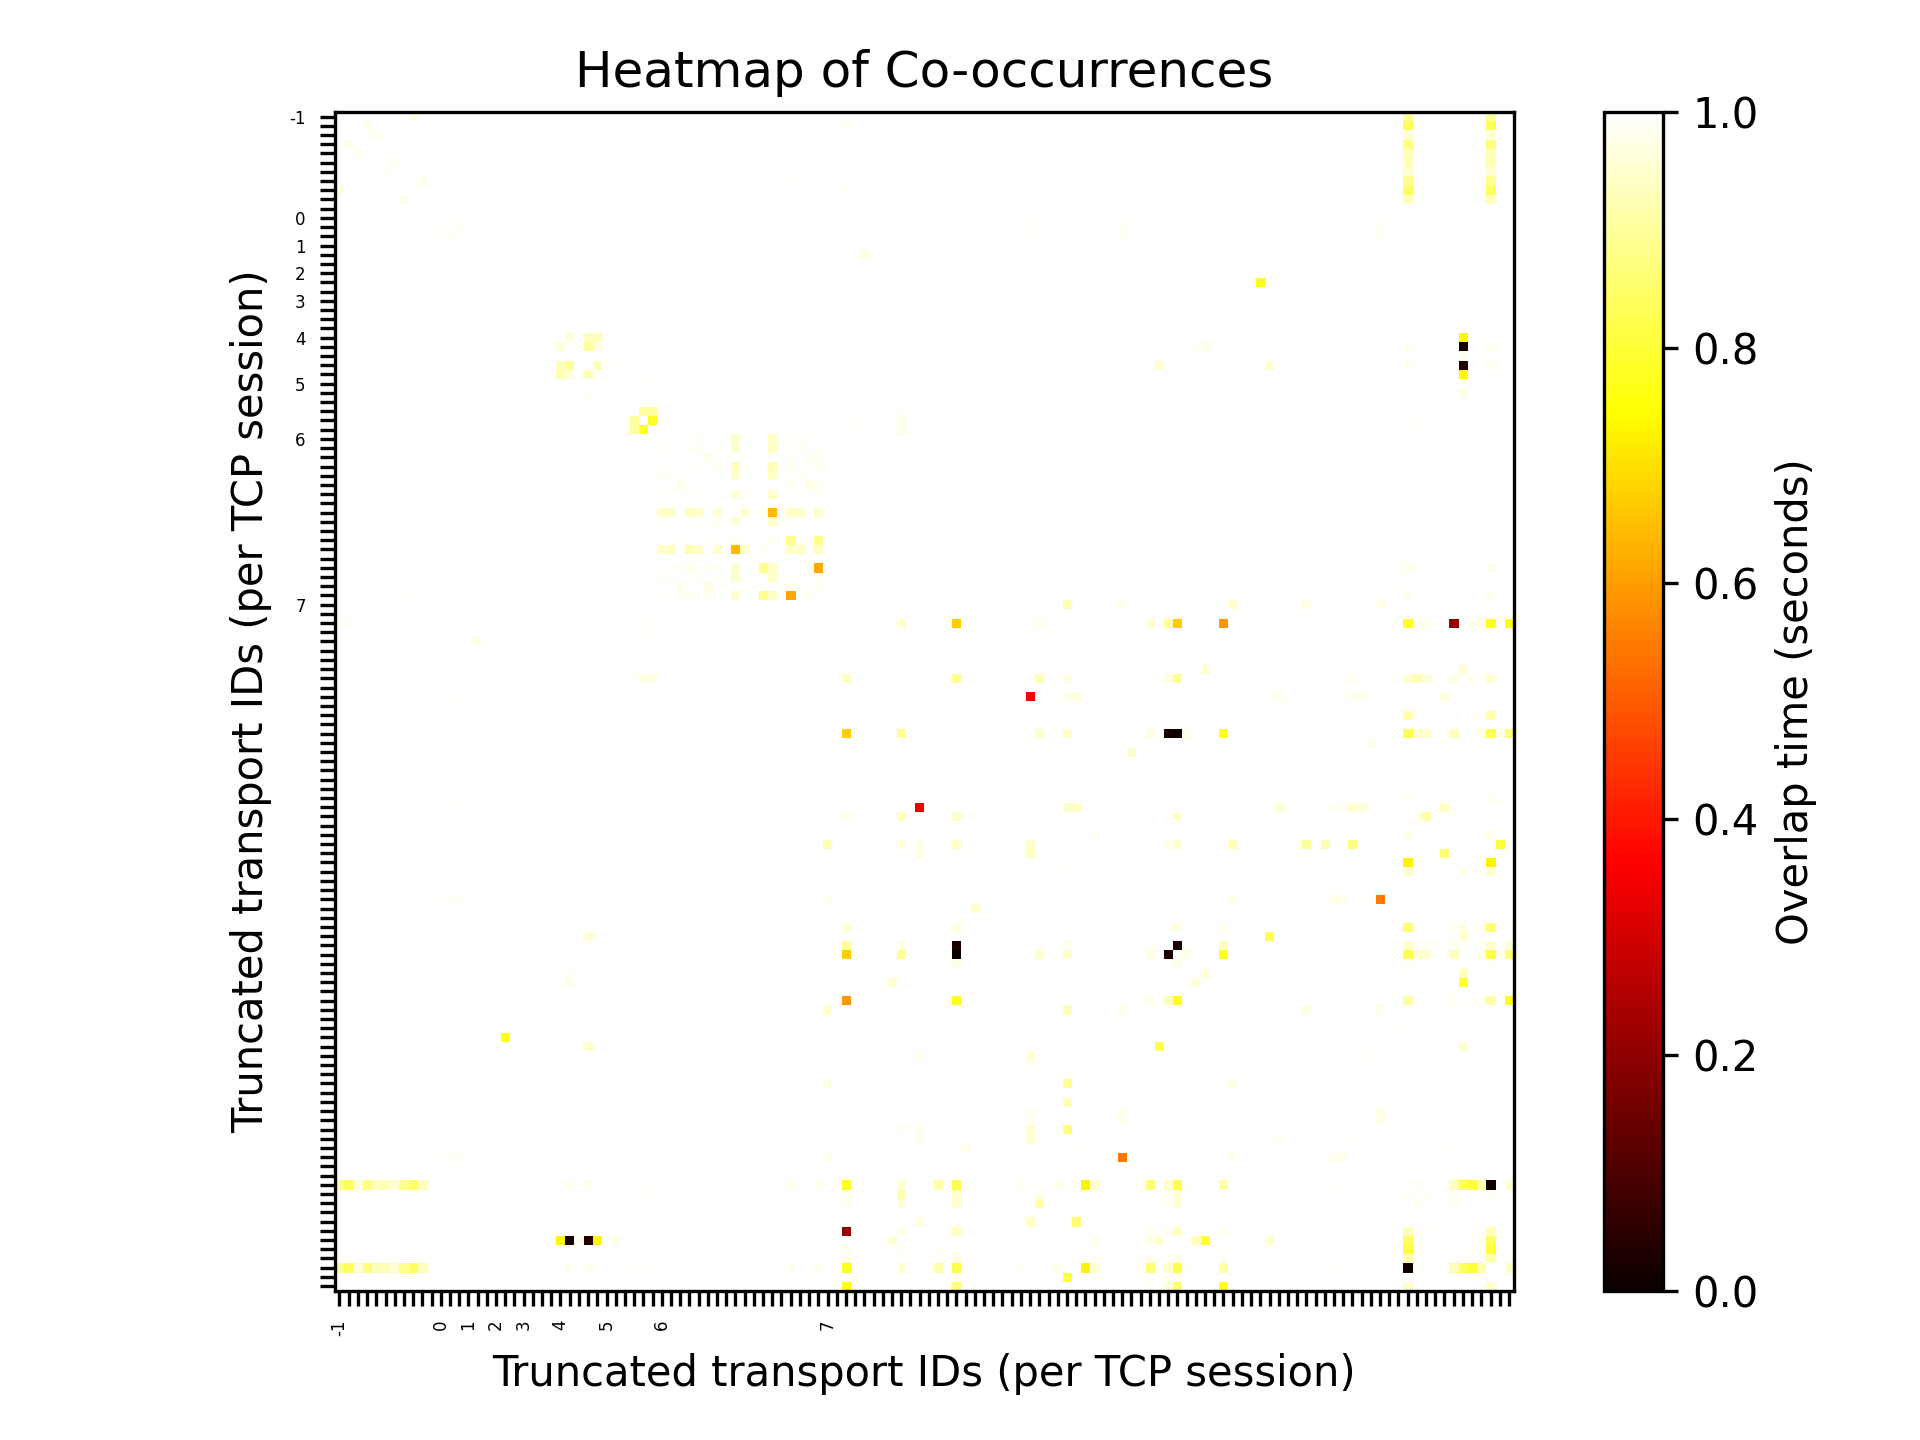
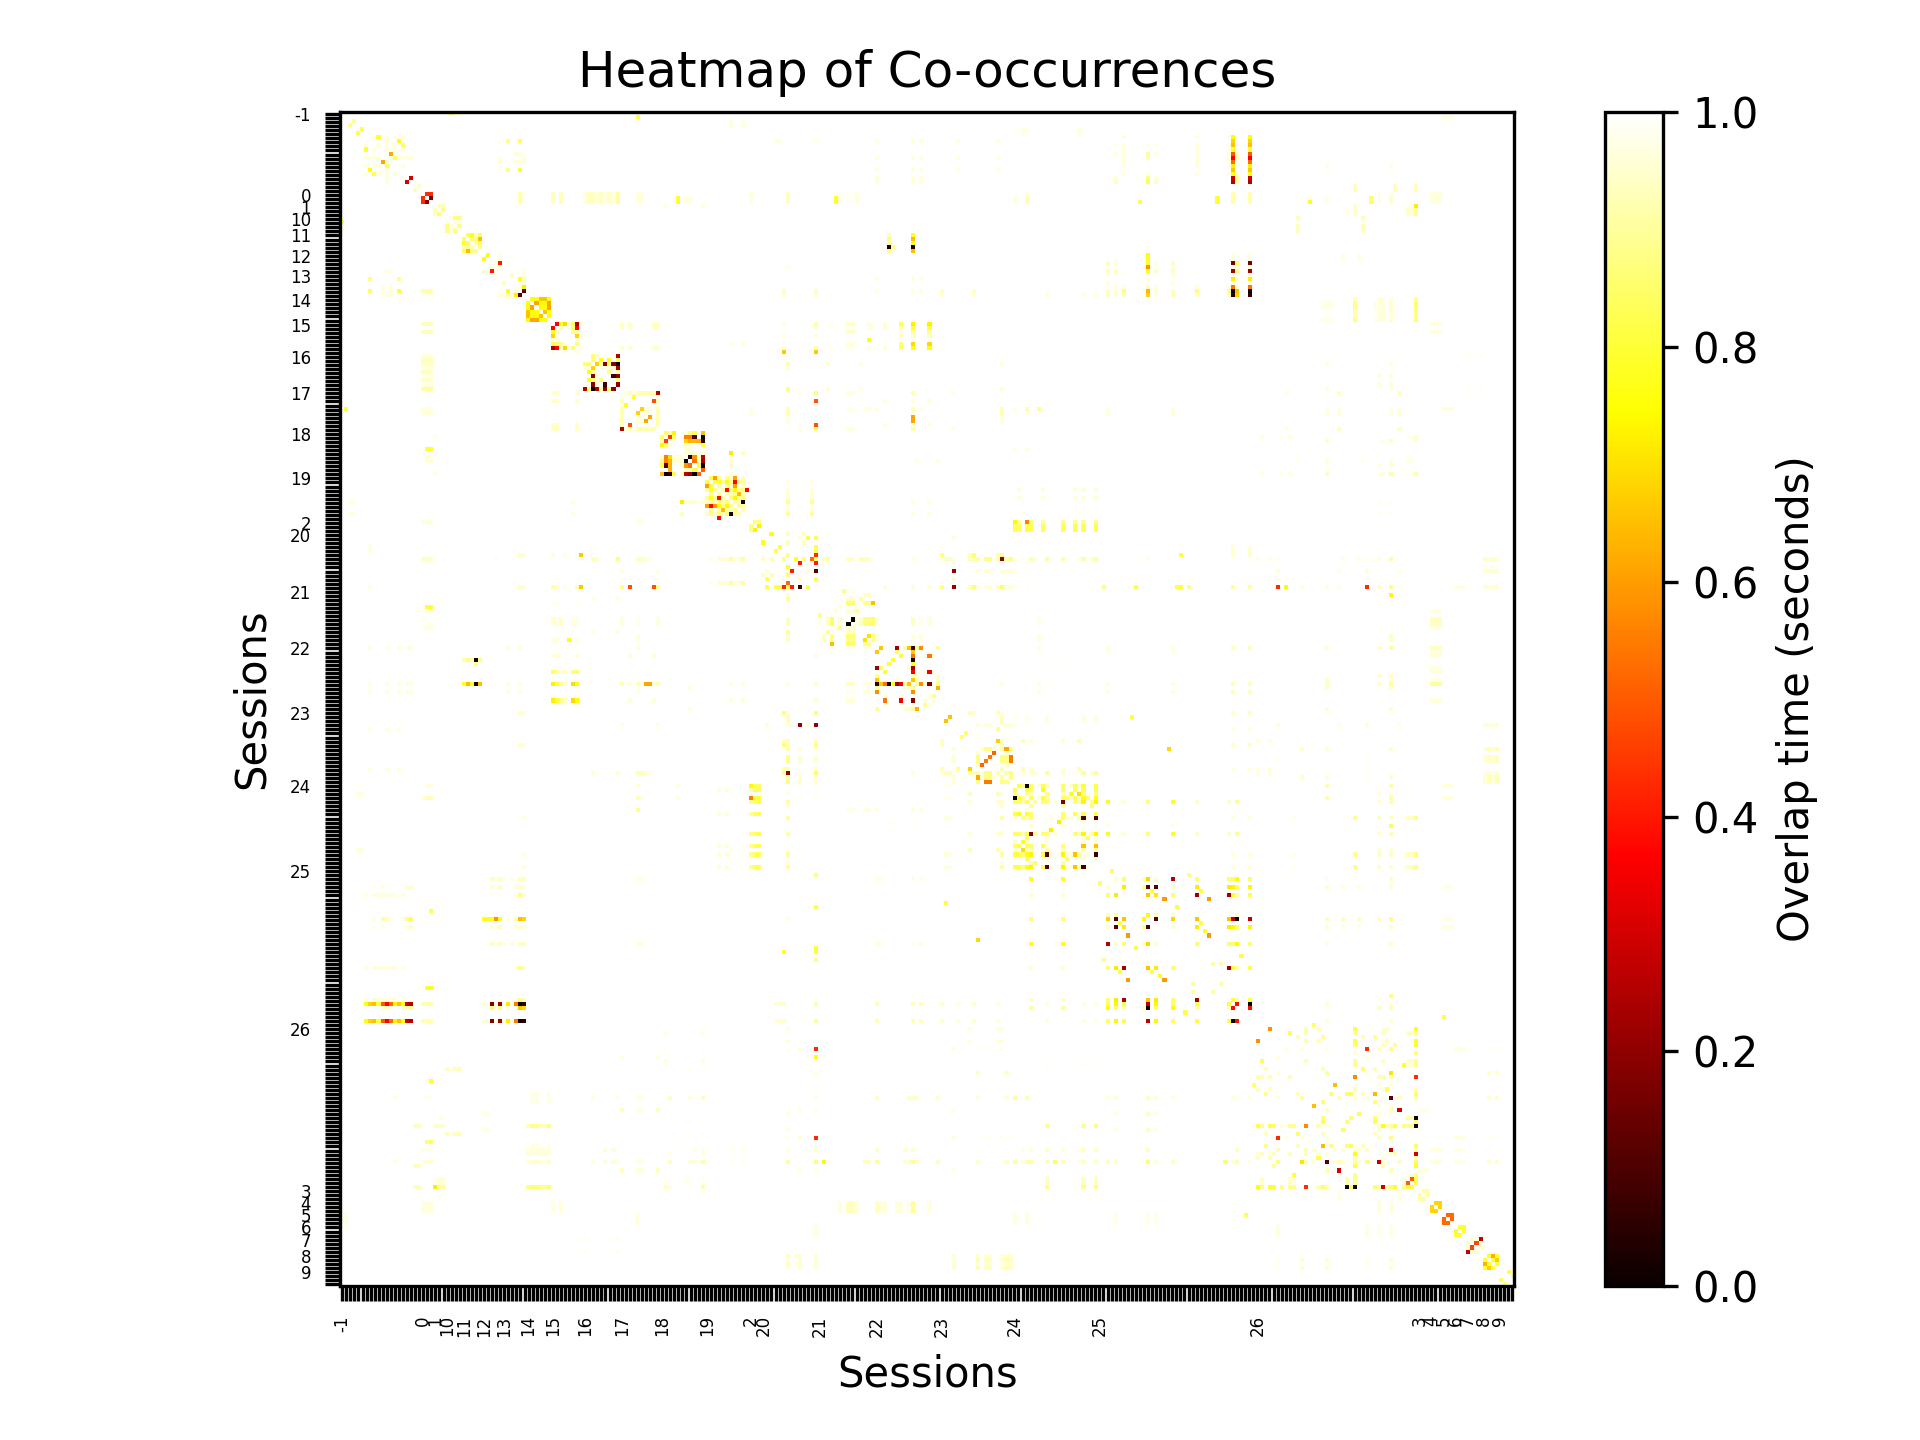
count size of data taken by cooccurrence, make sure overlap values dont overflow, plot overlaps frequencies (and cdf), make cooccurrence data private

diff --git a/inspect/grouping/cooccurrence.go b/inspect/grouping/cooccurrence.go
@@ -3,6 +3,7 @@ package grouping
 import (
 	"fmt"
 	"os"
+	"unsafe"
 
 	"bringyour.com/protocol"
 
@@ -27,8 +28,8 @@ type CoOccurrenceData map[uint64]map[uint64]uint64
 
 // used to precompute distances for clustering
 type CoOccurrence struct {
-	Data      *CoOccurrenceData
-	IdMapping map[SessionID]uint64 // map from session id to internal cooccurrence id (0 is never used as id)
+	data      *CoOccurrenceData
+	idMapping *map[SessionID]uint64 // map from session id to internal cooccurrence id (0 is never used as id)
 	nextId    uint64
 }
 
@@ -37,9 +38,10 @@ func NewCoOccurrence(cmapData *CoOccurrenceData) *CoOccurrence {
 		_cmapData := make(CoOccurrenceData, 0)
 		cmapData = &_cmapData
 	}
+	idMap := make(map[SessionID]uint64, 0)
 	return &CoOccurrence{
-		Data:      cmapData,
-		IdMapping: make(map[SessionID]uint64),
+		data:      cmapData,
+		idMapping: &idMap,
 		nextId:    1, // 0 is never used as id
 	}
 }
@@ -47,22 +49,22 @@ func NewCoOccurrence(cmapData *CoOccurrenceData) *CoOccurrence {
 // gets the internal id of the provided session id
 // if the session id is not in the mapping, it is added as the next available id
 func (c *CoOccurrence) getInternalId(sid SessionID) uint64 {
-	cid, ok := c.IdMapping[sid]
+	cid, ok := (*c.idMapping)[sid]
 	if !ok {
 		cid = c.nextId
-		c.IdMapping[sid] = cid
+		(*c.idMapping)[sid] = cid
 		c.nextId++
 	}
 	return cid
 }
 
-func (c *CoOccurrence) GetInternalMapping() map[SessionID]uint64 {
-	return c.IdMapping
+func (c *CoOccurrence) GetInternalMapping() *map[SessionID]uint64 {
+	return c.idMapping
 }
 
 func (c *CoOccurrence) SetOuterKey(sid SessionID) {
 	cid := c.getInternalId(sid)
-	(*c.Data)[cid] = make(map[uint64]uint64, 0)
+	(*c.data)[cid] = make(map[uint64]uint64, 0)
 }
 
 func (c *CoOccurrence) CalcAndSet(ov1 Overlap, ov2 Overlap) {
@@ -83,15 +85,15 @@ func (c *CoOccurrence) CalcAndSet(ov1 Overlap, ov2 Overlap) {
 
 	switch sid1.Compare(sid2) {
 	case -1: // sid1 < sid2
-		if _, ok := (*c.Data)[cid1]; !ok {
-			(*c.Data)[cid1] = make(map[uint64]uint64, 0)
+		if _, ok := (*c.data)[cid1]; !ok {
+			(*c.data)[cid1] = make(map[uint64]uint64, 0)
 		}
-		(*c.Data)[cid1][cid2] = totalOverlap
+		(*c.data)[cid1][cid2] = totalOverlap
 	case 1: // sid1 > sid2
-		if _, ok := (*c.Data)[cid2]; !ok {
-			(*c.Data)[cid2] = make(map[uint64]uint64, 0)
+		if _, ok := (*c.data)[cid2]; !ok {
+			(*c.data)[cid2] = make(map[uint64]uint64, 0)
 		}
-		(*c.Data)[cid2][cid1] = totalOverlap
+		(*c.data)[cid2][cid1] = totalOverlap
 	}
 }
 
@@ -101,15 +103,27 @@ func (c *CoOccurrence) Get(sid1 SessionID, sid2 SessionID) uint64 {
 
 	// if value doesn't exist then 0 value is returned (which is desired)
 	if sid1.Compare(sid2) < 0 {
-		return (*c.Data)[cid1][cid2]
+		return (*c.data)[cid1][cid2]
 	}
-	return (*c.Data)[cid2][cid1]
+	return (*c.data)[cid2][cid1]
+}
+
+func (c *CoOccurrence) GetNonZeroData() *[]uint64 {
+	tuples := make([]uint64, 0)
+	for _, innerMap := range *c.data {
+		for _, overlap := range innerMap {
+			if overlap != 0 {
+				tuples = append(tuples, overlap)
+			}
+		}
+	}
+	return &tuples
 }
 
 func (c *CoOccurrence) SaveData(dataPath string) error {
 	coocData := make([]*protocol.CoocOuter, 0)
 
-	for outerCid, coocInner := range *c.Data {
+	for outerCid, coocInner := range *c.data {
 		outer := &protocol.CoocOuter{
 			Cid: outerCid,
 		}
@@ -125,7 +139,7 @@ func (c *CoOccurrence) SaveData(dataPath string) error {
 	}
 
 	mappingData := make([]*protocol.CoocSid, 0)
-	for sid, cid := range c.IdMapping {
+	for sid, cid := range *c.idMapping {
 		mappingData = append(mappingData, &protocol.CoocSid{
 			Sid: string(sid),
 			Cid: cid,
@@ -164,13 +178,46 @@ func (c *CoOccurrence) LoadData(dataPath string) error {
 		}
 		result[outer.Cid] = innerMap
 	}
-	c.Data = &result
+	c.data = &result
 
 	mapping := make(map[SessionID]uint64)
 	for _, sid := range coocData.CoocSid {
 		mapping[SessionID(sid.Sid)] = sid.Cid
 	}
-	c.IdMapping = mapping
+	c.idMapping = &mapping
 
 	return nil
+}
+
+// MemorySize returns the size of the CoOccurrence in memory in bytes
+// the data size of the full matrix for N sessionIDs is:
+// s_key * N + (s_key + s_val)(N-1)N where s_key is the size of the key and s_val is the size of the value
+// if keys are vals are uint64 (8 bytes) then we get 8N + 16(N-1)N ~ 16N^2 bytes
+// if the matrix is not full then we can substitude (N-1) with the expected number of non-zero overlaps per sessionID
+func (c *CoOccurrence) MemorySize() (uint64, uint64) {
+	if c == nil {
+		return 0, 0
+	}
+
+	dataSize := uint64(0)
+	if c.data != nil {
+		// calculate size of the CoOccurrenceData map
+		for outerKey, innerMap := range *c.data {
+			dataSize += uint64(unsafe.Sizeof(outerKey))
+			for innerKey, value := range innerMap {
+				dataSize += uint64(unsafe.Sizeof(innerKey))
+				dataSize += uint64(unsafe.Sizeof(value))
+			}
+		}
+	}
+
+	idMapSize := uint64(0)
+	if c.idMapping != nil {
+		for id, value := range *c.idMapping {
+			idMapSize += uint64(len(id))
+			idMapSize += uint64(unsafe.Sizeof(value))
+		}
+	}
+
+	return dataSize, idMapSize
 }

diff --git a/inspect/main.go b/inspect/main.go
@@ -35,13 +35,13 @@ func main() {
 	clusterMethod := grouping.NewHDBSCAN(hdbscanOpts)
 
 	// OVERLAP FUNCTIONS
-	// overlapFunctions := grouping.FixedMarginOverlap{
-	// 	Margin: grouping.TimestampInNano(0.010_000_000), // x seconds fixed margin
-	// }
-	overlapFunctions := grouping.GaussianOverlap{
-		StdDev: grouping.TimestampInNano(0.010_000_000), // x seconds
-		Cutoff: 4,                                       // x standard deviations
+	overlapFunctions := grouping.FixedMarginOverlap{
+		Margin: grouping.TimestampInNano(0.010_000_000), // x seconds fixed margin
 	}
+	// overlapFunctions := grouping.GaussianOverlap{
+	// 	StdDev: grouping.TimestampInNano(0.010_000_000), // x seconds
+	// 	Cutoff: 4,                                       // x standard deviations
+	// }
 
 	if fname == "parse_pcap" || fname == "p" {
 		payload.PcapToTransportFiles(testCase.DataPath, testCase.SavePath, testCase.SourceIP)
@@ -77,6 +77,8 @@ func parseTimestamps(overlapFunctions grouping.OverlapFunctions, records *map[ul
 	sessionTimestamps := grouping.MakeTimestamps(overlapFunctions, records)
 	cooc, _ := grouping.MakeCoOccurrence(sessionTimestamps)
 	cooc.SaveData(coOccurrencePath)
+	dataSize, idMapSize := cooc.MemorySize()
+	log.Printf("CoOccurrence memory size: data=%d ids=%d total=%d bytes", dataSize, idMapSize, dataSize+idMapSize)
 	overlapStats(cooc)
 }
 
@@ -185,13 +187,8 @@ func saveTimes(overlapFunctions grouping.OverlapFunctions, records *map[ulid.ULI
 // print statistics about overlaps in cooccurrence map
 func overlapStats(cooc *grouping.CoOccurrence) {
 	float64Overlaps := make([]float64, 0)
-	for _, cmap := range *cooc.Data {
-		for _, v := range cmap {
-			new_v := grouping.TimestampInSeconds(v)
-			if new_v > 0 {
-				float64Overlaps = append(float64Overlaps, new_v)
-			}
-		}
+	for _, v := range *cooc.GetNonZeroData() {
+		float64Overlaps = append(float64Overlaps, grouping.TimestampInSeconds(v))
 	}
 	log.Printf(`Co-occurrence statistics:
 # of timestamps: %d
@@ -201,7 +198,7 @@ func overlapStats(cooc *grouping.CoOccurrence) {
 	Mean: %.9f
 	StdDev: %.9f`,
 
-		len(*cooc.Data),
+		len(*cooc.GetInternalMapping()),
 		len(float64Overlaps),
 		floats.Min(float64Overlaps),
 		floats.Max(float64Overlaps),

diff --git a/inspect/analysis/plot_freq.py b/inspect/analysis/plot_freq.py
@@ -1,0 +1,56 @@
+import sys
+import matplotlib.pyplot as plt
+from collections import Counter
+import numpy as np
+from load_protos import load_cooc, get_args
+
+
+def plot_overlap_distribution(result):
+    # flatten all overlap values into a single list
+    overlaps = []
+    for inner_dict in result.values():
+        overlaps.extend(inner_dict.values())
+
+    # count occurrences of each overlap value
+    overlap_counts = Counter(overlaps)
+    unique_overlaps, frequencies = zip(*sorted(overlap_counts.items()))
+
+    # calculate the cumulative frequency and cumulative probability
+    cumulative_frequencies = np.cumsum(frequencies)
+    total = cumulative_frequencies[-1]  # total count of all overlaps
+    cumulative_probabilities = (
+        cumulative_frequencies / total
+    )  # convert to probabilities
+
+    # create subplots with shared x-axis
+    fig, (ax1, ax2) = plt.subplots(
+        2, 1, figsize=(10, 8), sharex=True, gridspec_kw={"height_ratios": [1, 1]}
+    )
+
+    # plot frequency distribution on the top plot
+    ax1.plot(unique_overlaps, frequencies, marker=".", linestyle="-", color="b")
+    ax1.set_ylabel("Frequency")
+    ax1.set_xscale("log")  # log scale for x-axis
+    ax1.grid(True, which="both", axis="y")
+    ax1.set_title("Overlap (Cooccurrence) Values Distribution and CDF")
+
+    # plot CDF on the bottom plot
+    ax2.plot(
+        unique_overlaps, cumulative_probabilities, marker=".", linestyle="-", color="r"
+    )
+    ax2.set_xlabel("Overlap Value in Nanoseconds (log scale)")
+    ax2.set_xscale("log")  # log scale for x-axis
+    ax2.set_ylabel("Cumulative Probability")
+    ax2.grid(True, which="both", axis="y")
+
+    plt.savefig("../images/freq.png", dpi=300)
+
+
+if __name__ == "__main__":
+    processed_args = get_args(sys.argv[1:])
+    # filename=../data/ts1/ts1_cooccurrence.pb
+    if filename := processed_args.get("filename"):
+        loaded_cooc, max_overlap = load_cooc(filename)
+        plot_overlap_distribution(loaded_cooc)
+    else:
+        sys.exit("argument 'filename' not provided (needed to load cooccurrence data)")

diff --git a/inspect/grouping/overlap.go b/inspect/grouping/overlap.go
@@ -131,8 +131,16 @@ func (fmo *FixedMarginOverlap) CalculateOverlap(times1, times2 []uint64) uint64 
 	activeTimes1 := 0
 	activeTimes2 := 0
 	lastTime := uint64(0)
+	lastOverlap := uint64(0)
 
 	for _, e := range events {
+		// check for overflow
+		if lastOverlap > totalOverlap {
+			fmt.Println("overflow")
+			return ^uint64(0) // max uint64
+		}
+		lastOverlap = totalOverlap
+
 		if activeTimes1 > 0 && activeTimes2 > 0 {
 			totalOverlap += e.eTime - lastTime
 		}
@@ -221,6 +229,11 @@ func (gausso *GaussianOverlap) CalculateOverlap(times1, times2 []uint64) uint64 
 			// fmt.Printf("[%v] overlap b/w %.6f and %.6f = %v\n", g1.Sigma, g1.Mu, g2.Mu, overlap)
 			totalOverlap += overlap
 		}
+	}
+	// check for overflow
+	if totalOverlap < 0.0 {
+		fmt.Println("overflow")
+		return ^uint64(0) // max uint64
 	}
 
 	return TimestampInNano(totalOverlap) // convert to nanoseconds

diff --git a/inspect/grouping/clustering_test.go b/inspect/grouping/clustering_test.go
@@ -187,9 +187,12 @@ func TestClustering(t *testing.T) {
 				if err != nil {
 					t.Fatalf("Error loading transports: %v", err)
 				}
-				overlapFunctions := GaussianOverlap{
-					StdDev: TimestampInNano(0.010_000_000), // x seconds
-					Cutoff: 4,                              // x standard deviations
+				// overlapFunctions := GaussianOverlap{
+				// 	StdDev: TimestampInNano(0.010_000_000), // x seconds
+				// 	Cutoff: 4,                              // x standard deviations
+				// }
+				overlapFunctions := FixedMarginOverlap{
+					Margin: TimestampInNano(0.010_000_000), // x seconds fixed margin
 				}
 				sessionTimestamps := MakeTimestamps(&overlapFunctions, records)
 

diff --git a/inspect/grouping/clustering.go b/inspect/grouping/clustering.go
@@ -221,18 +221,17 @@ func GoCluster(clusterOps *ClusterOpts, printPython bool) (map[string][]SessionI
 
 	// get max value from cooccurrence map
 	maxOverlap := uint64(0)
-	for _, inner := range *cooc.Data {
-		for _, overlap := range inner {
-			if overlap > maxOverlap {
-				maxOverlap = overlap
-			}
+	coocData := cooc.GetNonZeroData()
+	for _, overlap := range *coocData {
+		if overlap > maxOverlap {
+			maxOverlap = overlap
 		}
 	}
 
 	// get all sids (top level) in cooc map
 	sids := make([]SessionID, 0)
-	coodSids := cooc.GetInternalMapping()
-	for sid := range coodSids {
+	coocSids := cooc.GetInternalMapping()
+	for sid := range *coocSids {
 		sids = append(sids, sid)
 	}
 

diff --git a/inspect/analysis/data_insights.py b/inspect/analysis/data_insights.py
@@ -61,7 +61,7 @@ def graph_data(cooc_data, sids, clusters, max_overlap, print_stats):
     plt.xticks(ticks=np.arange(len(sids)), labels=truncated_labels, rotation=90)
     plt.yticks(ticks=np.arange(len(sids)), labels=truncated_labels)
     plt.tick_params(axis="both", labelsize=4)
-    xy_label = "Truncated transport IDs (per TCP session)"
+    xy_label = "Sessions"
     plt.xlabel(xy_label)
     plt.ylabel(xy_label)
 
